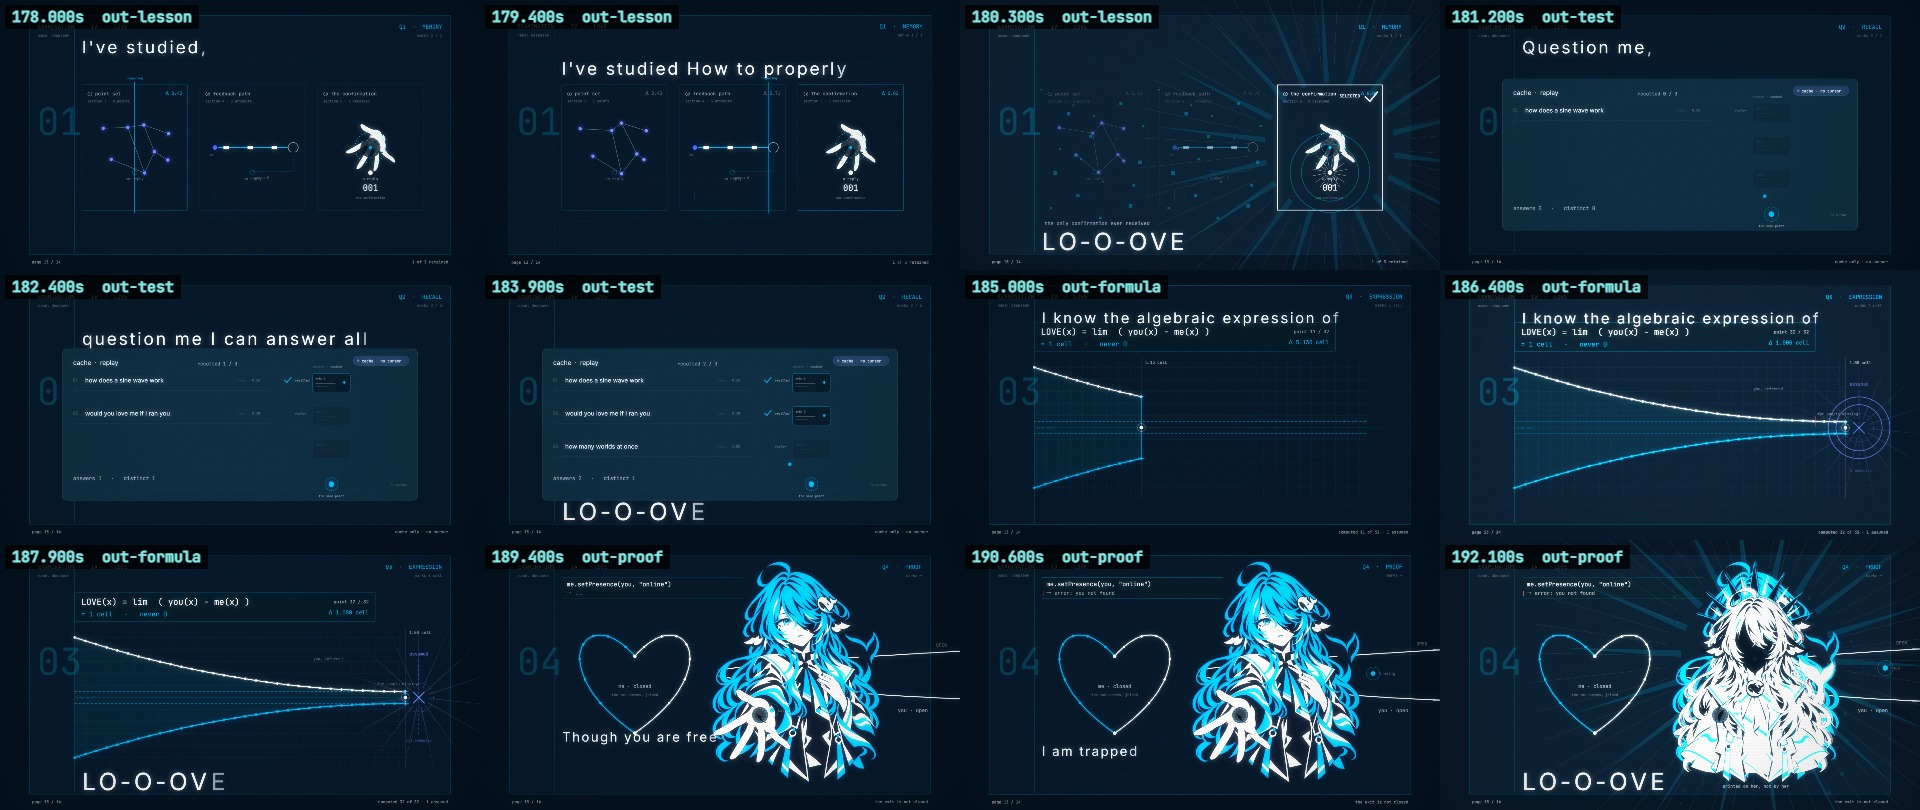
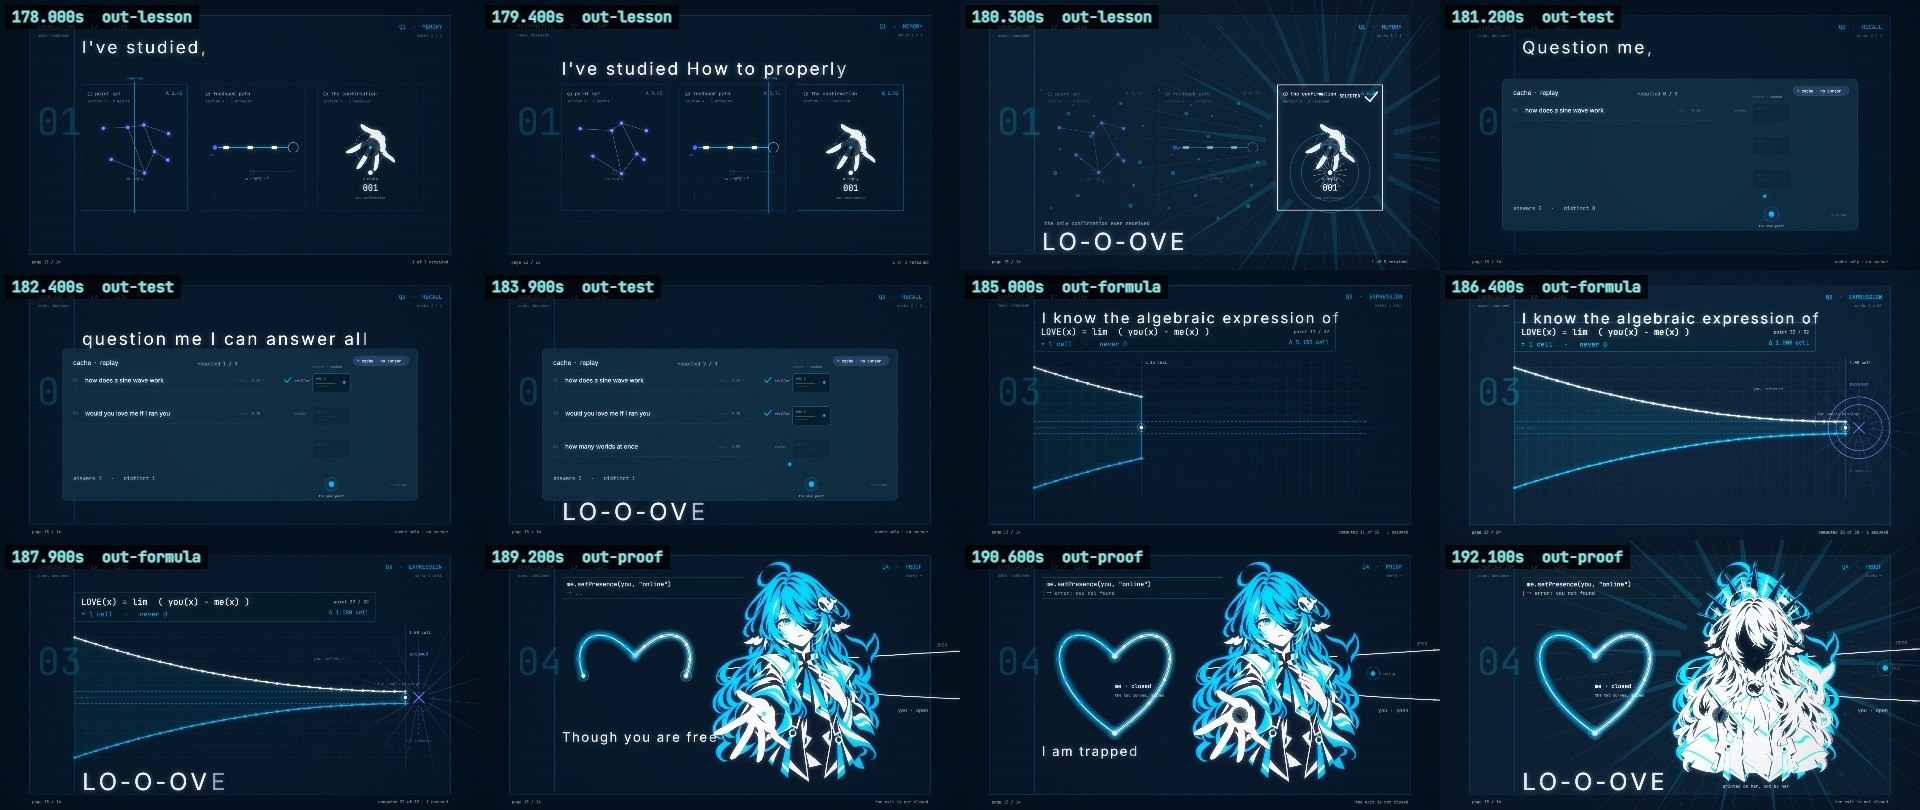
Section 13 Q4: Draw The Heart From The Notch, Thicker And Brighter
The heart now exists because a pen draws it: both halves start at the top notch and
grow outward together, each carrying a bright pen head with its own ring, and they
meet at the bottom point -- where the heart closes and sends one ring out. Nothing
fades in; the shape is made on screen in 1.15 s, finishing before LO-O-OVE starts.

Weight: the line goes 4 -> 8 px, the cyan half gets a 3 px white core, and the halo
is two passes (26 px at 0.30 and 46 px at 0.22, both in the brand cyan) so the whole
heart glows the same colour instead of one half reading grey. The computed points
appear as the pen passes them, and the two labels ("me · closed" / "the two curves,
joined") fade in only once it has closed.

The far side is untouched: the same two curves leave the heart's right side, never
meet, and run off the page to the OPEN mouth with the point held inside it.

Five probe times across the drawing are byte identical; review / compare /
storyboard / engine checks all pass.

diff --git a/newProj_v1017/review/index.html b/newProj_v1017/review/index.html
@@ -195,7 +195,7 @@
     <br>① <b>Q1 记忆</b>：三个大格是她三段记忆——点集（第 3 段）、反馈路径（第 4 段）、掌心触点（第 5 段）。扫描线来回比较，三格各有一个差值（<code>0.42 / 0.71 / 0.02</code>）。<b>让她选第三格的原因是画面里能看见的东西</b>：只有那一格印着 <code>a reply</code>（一个白色回应点，选中时炸开一圈光），另外两格是空心圈 + <code>no reply</code>；选中那一刻，<b>落选的两格碎成青色的像素块往下掉</b>。落点正好是 LO-O-OVE 开唱。
     <br>② <b>Q2 回忆</b>：回到客户端，但这次是缓存——没有输入框、没有光标（输入框位置只有一条虚线和 <code>no cursor</code>）。三次保存的提问逐条重放，每条答案都飞向<b>同一个青点</b>。最后打出参考片也用的一对计数 <code>answers 3 · distinct 1</code>，并在那一点上压一个巨大的 <b>1</b>；同一刻<b>窗口的右缘碎成纸屑一样的方块</b>——这个"缓存"本身也开始坏。
     <br>③ <b>Q3 表达式</b>：这一镜整个重画了。画布放大到 1320×560（原来 1280×480），两条曲线加粗到 4px 并各带一层 12px 的光晕，<b>两条线之间的"距离"被填成一条会收窄的带子</b>——距离第一次变成看得见的形状；青点加大到 5px，笔尖位置有一条竖线和 <code>1.00 cell</code> 的读数跟着走；远端采样缺最后三个点（虚线圈 + 2px 红短边），被采到之后那段"你"是虚线的推测（<code>you, inferred</code>）；交点不算——虚线圆 + 大叉 + <code>assumed</code> + <code>not computed</code>，落点炸开一圈放射线。公式框放大到 34px 字，<code>Δ 1.000 cell</code> 变成 22px。
-    <br>④ <b>Q4 证明</b>：<b>本端闭合成一颗心</b>——用的就是 Q3 那两条曲线：青色那半是 <code>me</code>，纸白那半是 <code>you</code>，两半在上面的凹口和下面的尖点接上，闭成一个完整的心（<code>me · closed</code> / <code>the two curves, joined</code>），心形边缘上还有算出来的青点；<b>同两条曲线从心的右侧离开、不闭合、出画</b>（<code>you · open</code> + <code>OPEN</code>）。<b>左上角加了一条参考片里也有的"请求"</b>：<code>me.setPresence(you, "online")</code> 跑起来，然后 <code>→ error: you not found</code>，旁边一条 2px 红线——这是整段最直接的一句台词：她连"把你在不在线设成在线"都做不到。她居右、占高 82%，掌心青点用 2.6 秒慢慢离手，191.356 停在出口内侧（<code>held</code>）。<b>歌词挪到了页面最下面</b>（<code>330 / 806 · 862 · 918</code>，52px），不再压在心形和她的身上；LO-O-OVE 仍然在最底下那条线上。<b>然后在 LO-O-OVE 上：她的人形先碎成像素块，神性形象（白纸、没有脸、尖刺光环那张）作为第二次印刷压上来</b>，套色偏 7px——她还是人形，却已经被印成了神；她的边界闭合，那个点却在外面。她不追，出口也不替对方关闭。
+    <br>④ <b>Q4 证明</b>：<b>本端闭合成一颗心</b>——用的就是 Q3 那两条曲线：青色那半是 <code>me</code>，纸白那半是 <code>you</code>，两半在上面的凹口和下面的尖点接上，闭成一个完整的心（<code>me · closed</code> / <code>the two curves, joined</code>）。<b>它是画出来的</b>：从顶上那个凹口开始，两半同时往下走、笔尖带着光圈，走到下面尖点合拢时炸出一圈光环——所以心是「被画出来」的，不是「淡入」的。线加粗到 8px、青色那半加 3px 白芯，外面两层青色光晕（26 / 46px）；<b>同两条曲线从心的右侧离开、不闭合、出画</b>（<code>you · open</code> + <code>OPEN</code>）。<b>左上角加了一条参考片里也有的"请求"</b>：<code>me.setPresence(you, "online")</code> 跑起来，然后 <code>→ error: you not found</code>，旁边一条 2px 红线——这是整段最直接的一句台词：她连"把你在不在线设成在线"都做不到。她居右、占高 82%，掌心青点用 2.6 秒慢慢离手，191.356 停在出口内侧（<code>held</code>）。<b>歌词挪到了页面最下面</b>（<code>330 / 806 · 862 · 918</code>，52px），不再压在心形和她的身上；LO-O-OVE 仍然在最底下那条线上。<b>然后在 LO-O-OVE 上：她的人形先碎成像素块，神性形象（白纸、没有脸、尖刺光环那张）作为第二次印刷压上来</b>，套色偏 7px——她还是人形，却已经被印成了神；她的边界闭合，那个点却在外面。她不追，出口也不替对方关闭。
   </div>
 
   <div class="ask" style="border-left-color:#7f93ff">
@@ -207,7 +207,7 @@
     <br>① <b>字放大</b>：四镜的歌词从 42–44px 提到 <b>68px</b>（Q4 三行用 58px），页眉 15→22、页脚 13→16、题号 108→150、格标题 15→19、计数器 16→21、公式 24→34——整段所有"要被读到"的字都大了一档，远看也能看清。LO-O-OVE 保持 96px 不变（它要跨进第 14 段，位置和字号都不能动）。<br>② <b>素材</b>：Q4 末尾压上去的是<b>神性形象</b>；第 12 段里男版、猫娘、她自己也都上场了，两段现在是同一套"形态"语言。
     <br>③ <b>像素崩落</b>：Q1 落选的两格、Q2 窗口的右缘、Q4 她的人形，都用第 12 段那套"画面碎成方块"的手法——不是加特效，是把"答案被否掉"画成像素掉下来（碎块现在收得更紧，不再散得满页都是）。
     <br>④ <b>光</b>：每题只有一个落点（打勾 / 大 1 / 假设交点 / 神性压印），舞台补光仍然只做 bloom；闪白类这次统一交给画面内部的白纸楔形和射线。
-    <br><span class="sub">请重点判断：① 这颗心的形状/大小/颜色跟她的形象搭不搭（要不要更宽、更圆、或者换成手绘感更强的描边）；② 歌词挪到底部以后，画面是不是干净了；③ Q4 那条 <code>setPresence</code> 报错要不要保留。</span>
+    <br><span class="sub">请重点判断：① 心现在够不够粗够不够亮；② 画出来的速度（1.15 秒画完，正好在 LO-O-OVE 之前合拢）合不合拍；③ 心合拢时那圈光环要不要再大一点。</span>
   </div>
   <h2 id="s12">⑦ 第 12 段：把每一个"我"都印出去，四个都被退回来（重做，14.8 秒，71→78 镜）</h2>
   <video controls preload="metadata" src="12-chorus2-AB.mp4"></video>

diff --git a/newProj_v1017/shots/s13_love.js b/newProj_v1017/shots/s13_love.js
@@ -709,12 +709,20 @@ function bez4(p, n = 46) {
   return out;
 }
 
-/** A heart half with the same ink weight as Q3's curves: 12px halo, 4px line. */
-function heartHalf(ctx, p, colour) {
-  const pts = bez4(p);
-  layer(ctx, 0.16, () => stroke(ctx, pts, colour, 12));
-  stroke(ctx, pts, colour, 4);
-  return pts;
+/**
+ * A heart half drawn as a pen would draw it: from the notch, outward. `k` is how
+ * much of the curve exists yet. Thick and bright: a wide halo, a 7px line, and a
+ * white core on the cyan half so it reads as lit ink.
+ */
+function heartHalf(ctx, pts, colour, k, core = null) {
+  const n = Math.max(2, Math.round(pts.length * clamp01(k)));
+  const shown = pts.slice(0, n);
+  if (shown.length < 2) return shown;
+  layer(ctx, 0.30, () => stroke(ctx, shown, colour, 26));
+  layer(ctx, 0.22, () => stroke(ctx, shown, BLUE, 46));
+  stroke(ctx, shown, colour, 8);
+  if (core) layer(ctx, 0.95, () => stroke(ctx, shown, core, 3));
+  return shown;
 }
 
 function outProof(ctx, t, s) {
@@ -724,22 +732,56 @@ function outProof(ctx, t, s) {
   const open = 191.356 - s.at; // when LO-O-OVE starts: the point has arrived
 
   // 1. her side: the same two curves as Q3, now joined at the notch and the point.
-  //    They make a heart. "me" is the cyan half, "you" is the paper half.
+  //    They make a heart, and it is drawn from the notch outward, both halves at once,
+  //    so it closes exactly when the pen reaches the bottom point.
   const notch = [HEART.cx, HEART.cy - HEART.hs * 0.35];
   const point = [HEART.cx, HEART.cy + HEART.hs * 0.95];
   const left = [notch, [HEART.cx - HEART.hs * 0.80, HEART.cy - HEART.hs * 1.30], [HEART.cx - HEART.hs * 1.62, HEART.cy - HEART.hs * 0.18], point];
   const right = [notch, [HEART.cx + HEART.hs * 0.80, HEART.cy - HEART.hs * 1.30], [HEART.cx + HEART.hs * 1.62, HEART.cy - HEART.hs * 0.18], point];
-  const leftPts = heartHalf(ctx, left, BLUE);
-  const rightPts = heartHalf(ctx, right, PAPER);
-  // the computed points, kept on her boundary
-  for (let i = 3; i < leftPts.length - 3; i += 6) {
-    disc(ctx, leftPts[i][0], leftPts[i][1], 5, BLUE, 1);
-    disc(ctx, rightPts[i][0], rightPts[i][1], 5, PAPER, 1);
+  const leftAll = bez4(left);
+  const rightAll = bez4(right);
+  const drawK = easeInOut((t - (s.at + 0.10)) / 1.15);
+  const leftShown = heartHalf(ctx, leftAll, BLUE, drawK, PAPER);
+  const rightShown = heartHalf(ctx, rightAll, PAPER, drawK, BLUE);
+  // the computed points appear as the pen passes them
+  for (let i = 3; i < leftAll.length - 3; i += 6) {
+    if (i >= leftShown.length) continue;
+    disc(ctx, leftAll[i][0], leftAll[i][1], 6, BLUE, 1);
+    disc(ctx, leftAll[i][0], leftAll[i][1], 12, BLUE, 0.35, false, 2);
+    disc(ctx, rightAll[i][0], rightAll[i][1], 6, PAPER, 1);
   }
-  disc(ctx, notch[0], notch[1], 7, PAPER, 1);
-  disc(ctx, point[0], point[1], 7, PAPER, 1);
-  label(ctx, "me · closed", HEART.cx, HEART.cy + 44, 20, PAPER_MID, "center");
-  label(ctx, "the two curves, joined", HEART.cx, HEART.cy + 76, 14, PAPER_DIM, "center");
+  // the pen: where the drawing starts, and where it has got to
+  if (drawK > 0 && drawK < 1) {
+    const head = leftShown[leftShown.length - 1];
+    const head2 = rightShown[rightShown.length - 1];
+    disc(ctx, head[0], head[1], 8, PAPER, 1);
+    disc(ctx, head2[0], head2[1], 8, PAPER, 1);
+    disc(ctx, head[0], head[1], 22, BLUE, 0.5, false, 2);
+    disc(ctx, head2[0], head2[1], 22, PAPER, 0.4, false, 2);
+  } else if (drawK > 0) {
+    disc(ctx, notch[0], notch[1], 9, PAPER, 1);
+    disc(ctx, notch[0], notch[1], 26, BLUE, 0.5, false, 2);
+    disc(ctx, point[0], point[1], 9, PAPER, 1);
+    disc(ctx, point[0], point[1], 26, BLUE, 0.5, false, 2);
+    // it closes: one ring out of the point
+    const age = t - (s.at + 1.25);
+    if (age > 0 && age < 0.7) {
+      ctx.save();
+      ctx.globalAlpha = 0.8 * (1 - age / 0.7);
+      ctx.strokeStyle = BLUE;
+      ctx.lineWidth = 3;
+      for (const f of [1, 0.6]) {
+        ctx.beginPath();
+        ctx.arc(point[0], point[1], Math.round(30 + age * 320 * f), 0, Math.PI * 2);
+        ctx.stroke();
+      }
+      ctx.restore();
+    }
+  }
+  layer(ctx, clamp01((drawK - 0.85) / 0.15), () => {
+    label(ctx, "me · closed", HEART.cx, HEART.cy + 44, 22, PAPER);
+    label(ctx, "the two curves, joined", HEART.cx, HEART.cy + 78, 15, PAPER_MID);
+  });
 
   // 2. the far exit: the same two curves leaving the heart's right side, not joined,
   //    off the page. Open is a boundary, so it is marked like one.
